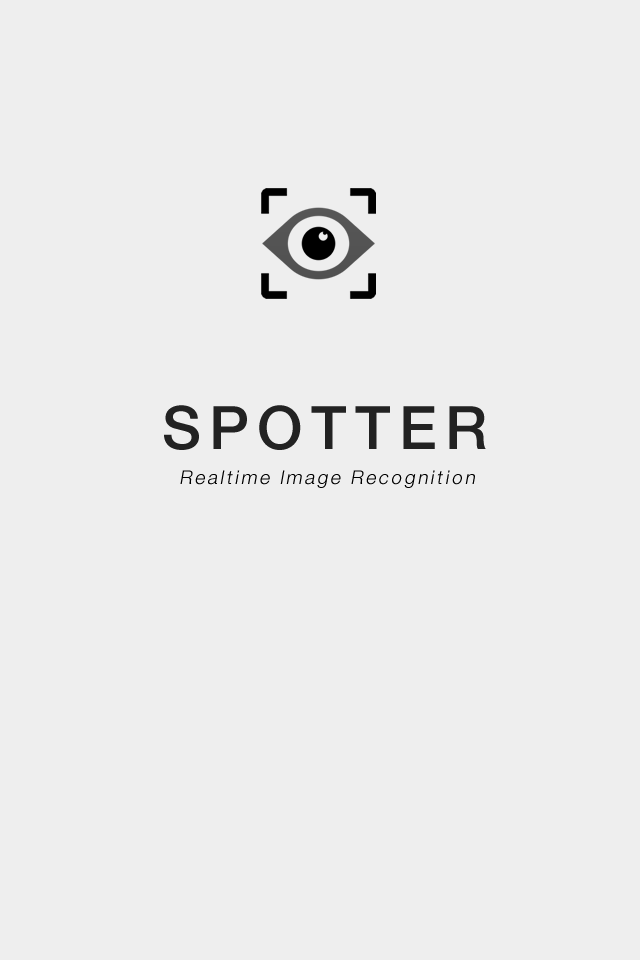
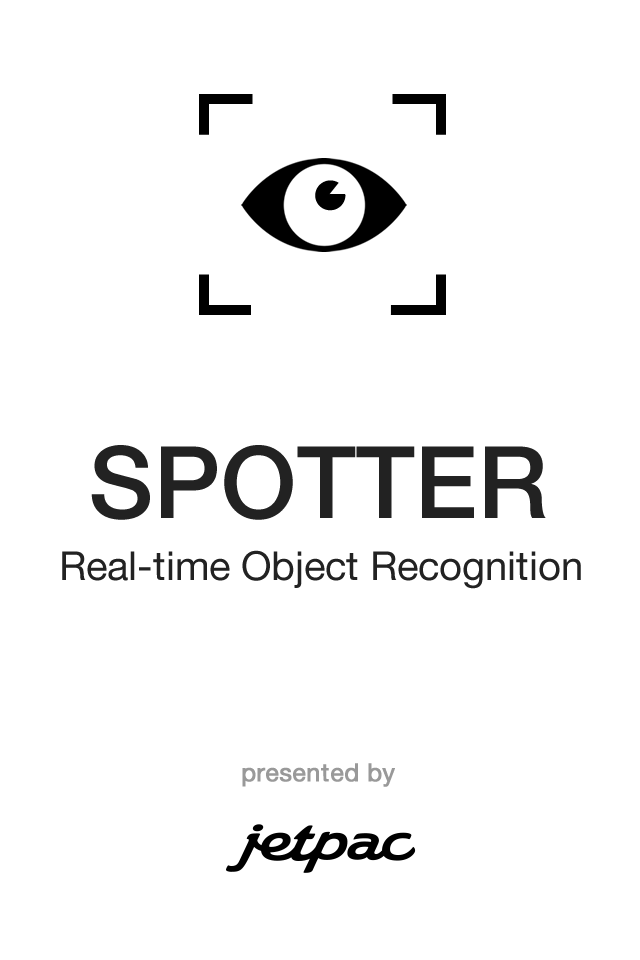
some new images

diff --git a/Jetpac Deep Belief/ViewController.m b/Jetpac Deep Belief/ViewController.m
@@ -111,6 +111,46 @@ static CGContextRef CreateCGBitmapContextForSize(CGSize size)
     square = [UIImage imageNamed:@"squarePNG"];
 	NSDictionary *detectorOptions = [[NSDictionary alloc] initWithObjectsAndKeys:CIDetectorAccuracyLow, CIDetectorAccuracy, nil];
 	faceDetector = [CIDetector detectorOfType:CIDetectorTypeFace context:nil options:detectorOptions];
+//    
+//    [self.saveImage setHidden:YES];
+//    
+//    [self createButton];
+//    
+//    synth = [[AVSpeechSynthesizer alloc] init];
+//    
+//    labelLayers = [[NSMutableArray alloc] init];
+//    
+//    oldPredictionValues = [[NSMutableDictionary alloc] init];
+//    
+//    gradientLayer = [[UIView alloc] init];
+//    CAGradientLayer *gradient = [CAGradientLayer layer];
+//    
+//    gradient.frame = previewView.bounds;
+//    [gradient setFrame:CGRectMake(0, 0, previewView.bounds.size.width, previewView.bounds.size.height / 2.0)];
+//    [gradient setColors:[NSArray arrayWithObjects:(id)[[UIColor blackColor] CGColor], (id)[[UIColor clearColor] CGColor], nil]];
+//    [gradientLayer.layer insertSublayer:gradient atIndex:0];
+//    [previewView addSubview:gradientLayer];
+//    [previewView bringSubviewToFront:gradientLayer];
+//    [gradientLayer setHidden:YES];
+    
+    [self.saveImage setHidden:YES];
+
+    [self.view bringSubviewToFront:introView];
+
+    [NSTimer scheduledTimerWithTimeInterval:5.0
+                                     target:self
+                                   selector:@selector(postTimerFinishLoading:)
+                                   userInfo:nil
+                                    repeats:NO];
+}
+
+- (void)postTimerFinishLoading:(NSTimer *)timer
+{
+    [timer invalidate];
+    timer = nil;
+    
+    [introView setHidden:YES];
+    [introView removeFromSuperview];
     
     [self.saveImage setHidden:YES];
     
@@ -131,7 +171,7 @@ static CGContextRef CreateCGBitmapContextForSize(CGSize size)
     [gradientLayer.layer insertSublayer:gradient atIndex:0];
     [previewView addSubview:gradientLayer];
     [previewView bringSubviewToFront:gradientLayer];
-//    [gradientLayer setHidden:YES];
+    //    [gradientLayer setHidden:YES];
 }
 
 - (void)viewDidUnload
@@ -216,7 +256,7 @@ static CGContextRef CreateCGBitmapContextForSize(CGSize size)
 
 - (void)dealloc
 {
-    [self teardownAVCapture];
+//    [self teardownAVCapture];
 }
 
 - (IBAction)switchCameras:(id)sender
@@ -966,7 +1006,10 @@ bail:
         }
     }
     dispatch_async(dispatch_get_main_queue(), ^(void) {
-        [self setPredictionValues: newValues];
+        if ([introView isHidden])
+        {
+            [self setPredictionValues: newValues];
+        }
     });
 }
 

diff --git a/Jetpac Deep Belief/ViewController.h b/Jetpac Deep Belief/ViewController.h
@@ -36,6 +36,7 @@
     NSMutableArray* labelLayers;
     AVCaptureSession* session;
     UIView *gradientLayer;
+    IBOutlet UIView *introView;
 }
 
 @property (retain, nonatomic) CATextLayer *predictionTextLayer;
